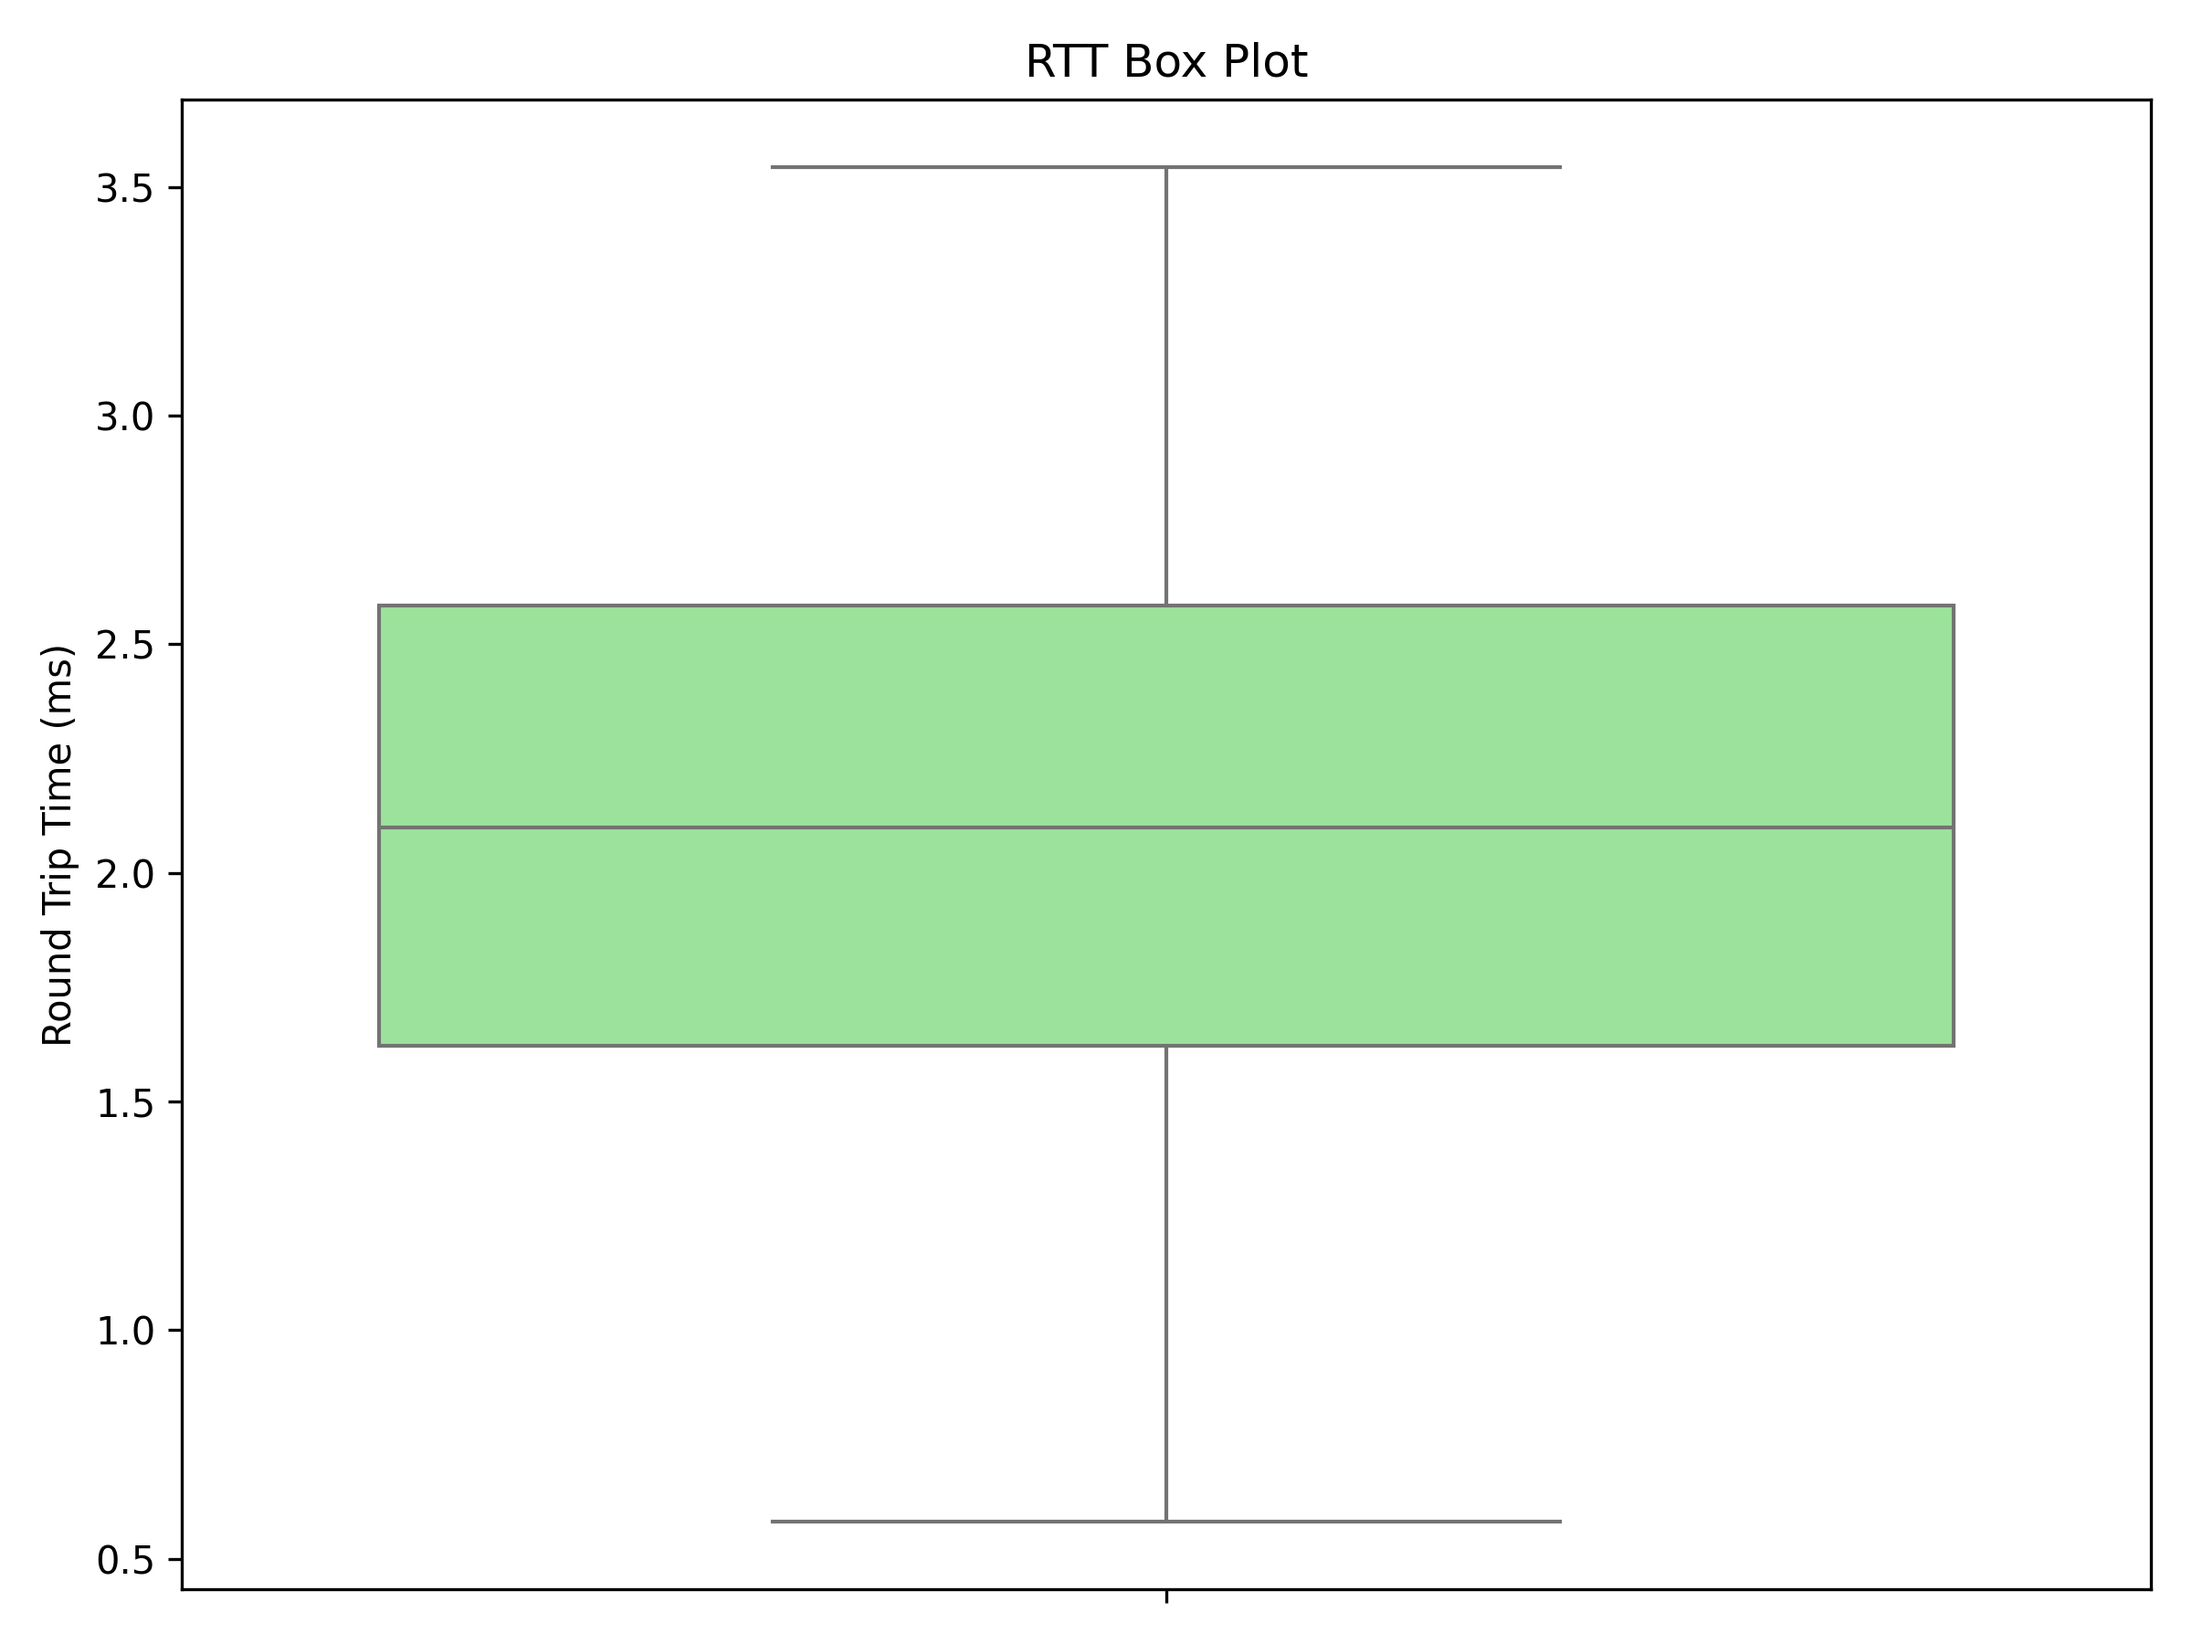
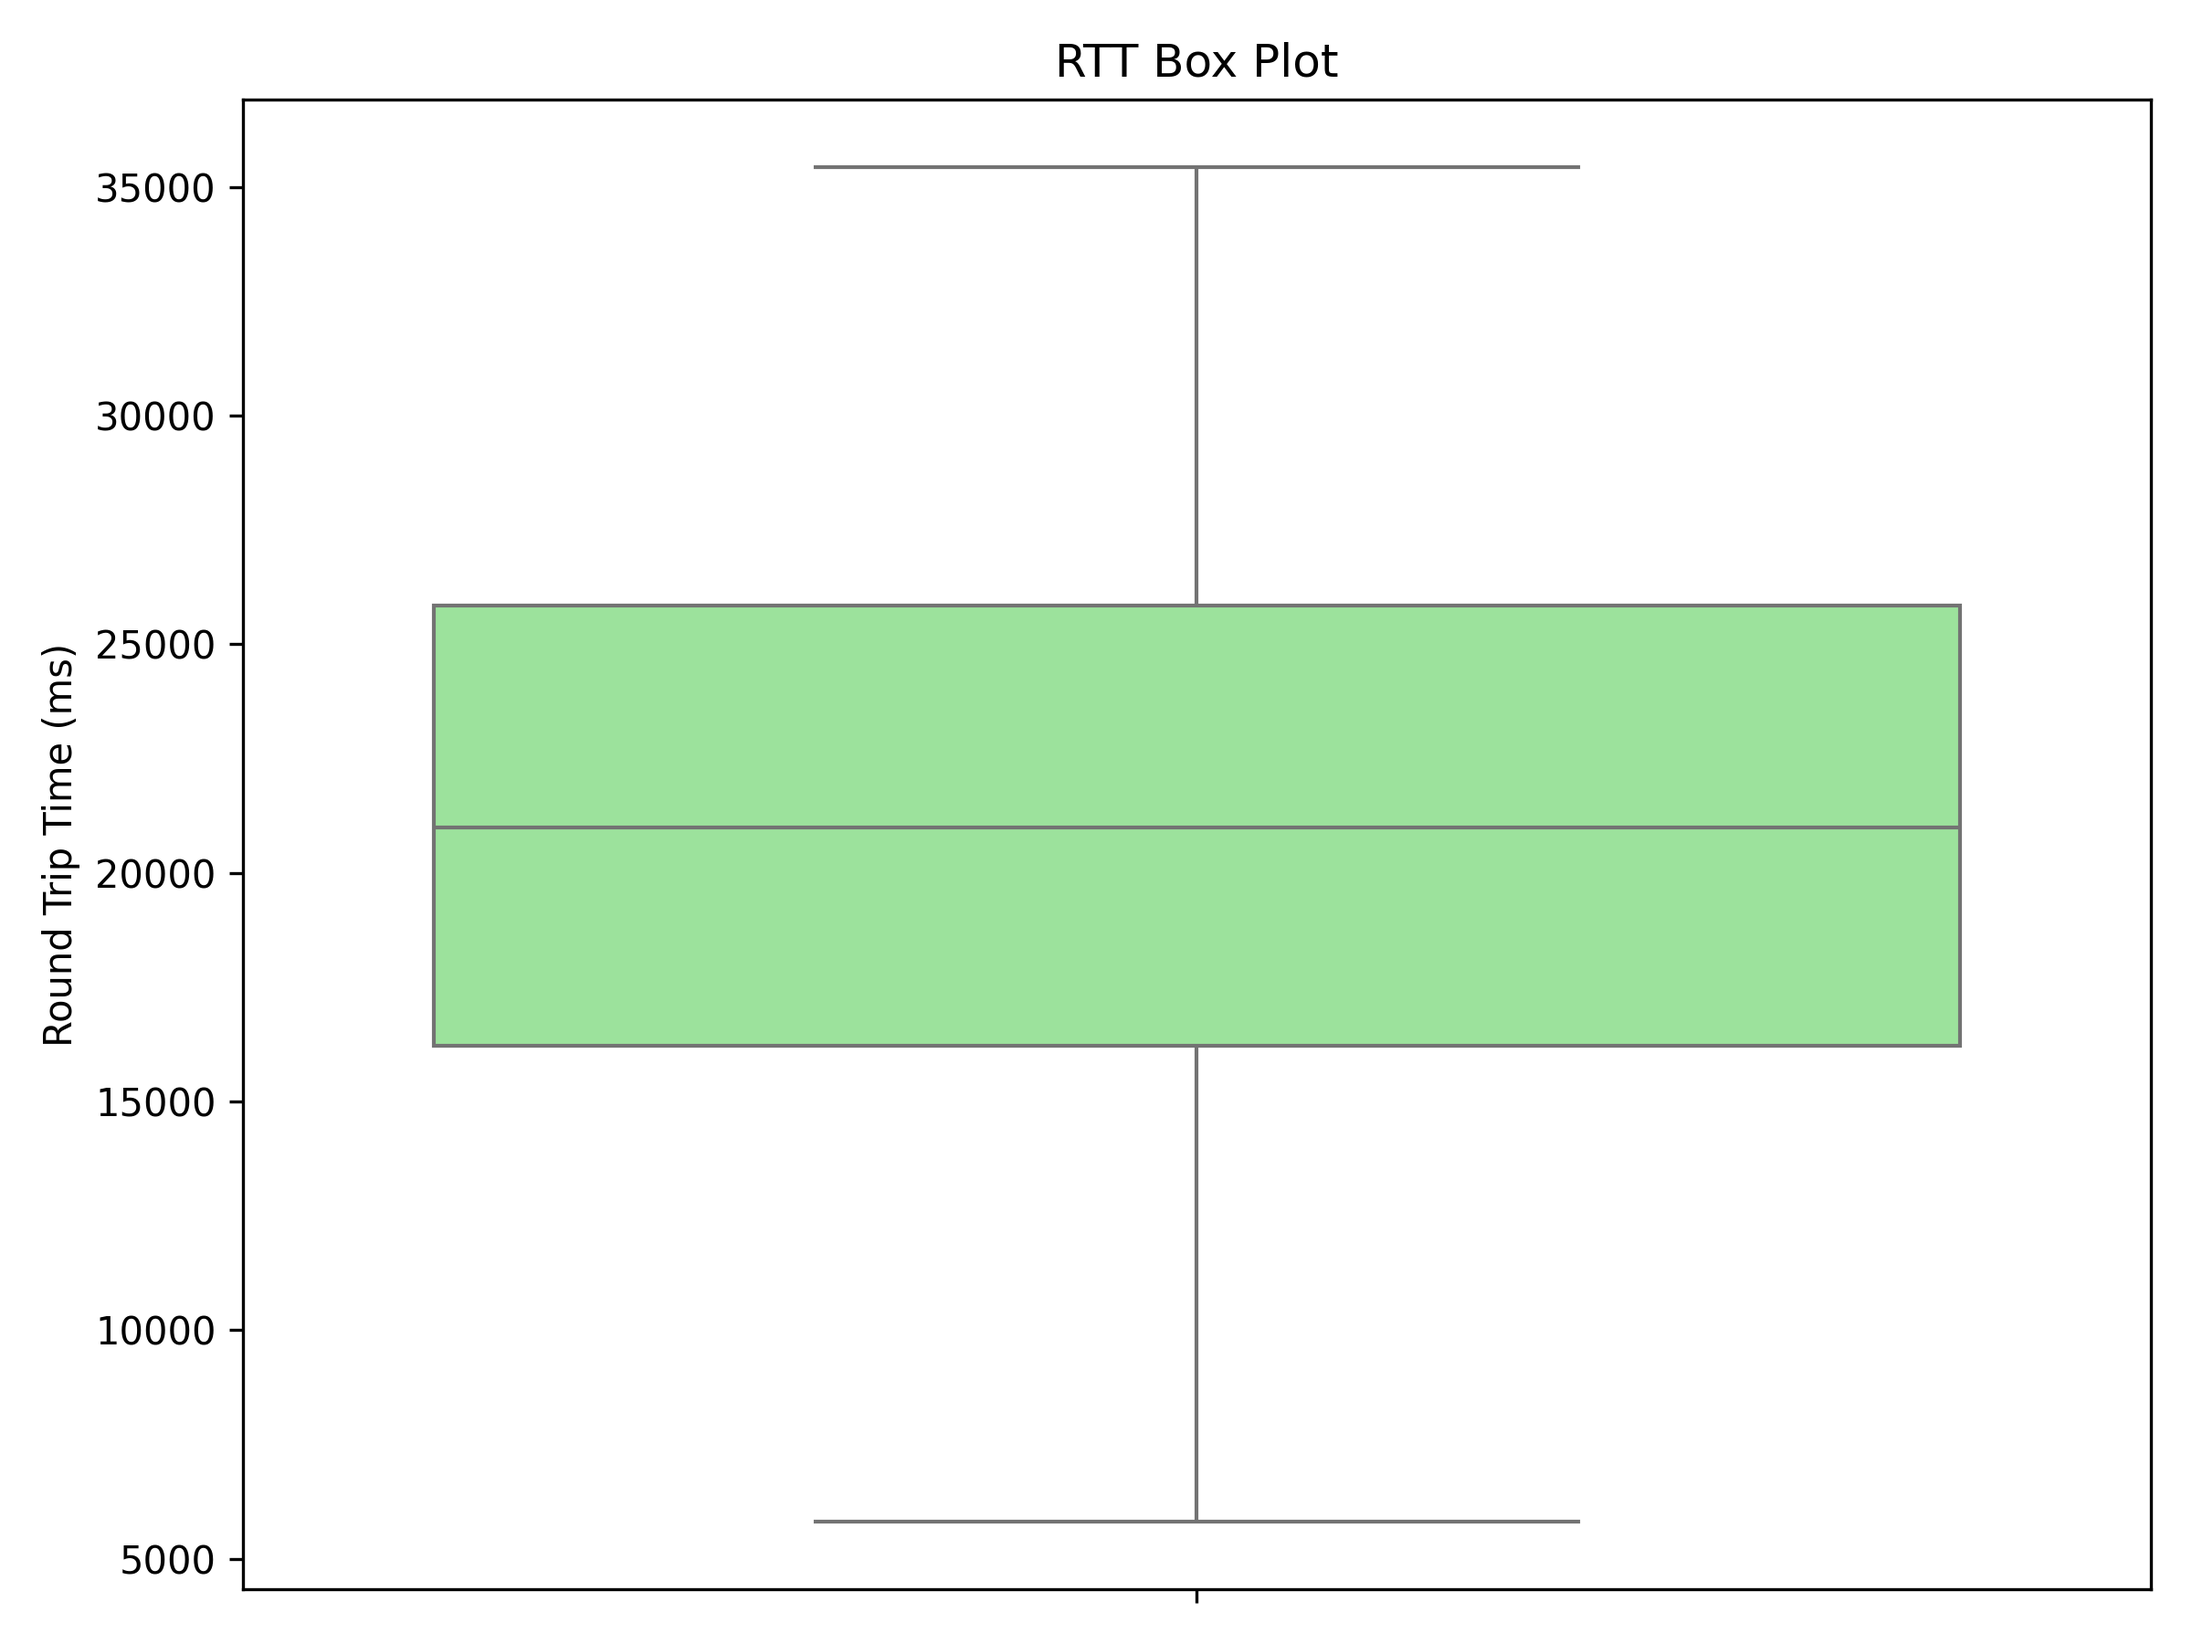
make benchmark in ms

diff --git a/benchmark/plots.py b/benchmark/plots.py
@@ -27,15 +27,15 @@ try:
             raise ValueError("Marker '--- ssd_os is READY! ---' not found in file.")
         
         # Now extract data from the following lines
-        clock_cycles = []
+        input = []
         for line in lines[start_index:]:
             if line.strip():  # Avoid empty lines
-                clock_cycles.append(int(line.strip()))
+                input.append(int(line.strip()))
     
     # Convert from 10MHz clock cycles to milliseconds
     # 1 cycle at 10MHz = 0.1 μs = 0.0001 ms
-    conversion_factor = 0.0001  # 10MHz clock cycle to milliseconds
-    rtt_data = [cycles * conversion_factor for cycles in clock_cycles]
+    # conversion_factor = 0.0001  # 10MHz clock cycle to milliseconds
+    rtt_data = input
     
     print(f"Successfully loaded {len(rtt_data)} data points from bench.txt")
     print(f"Converted clock cycles at 10MHz to milliseconds (1 cycle = 0.0001 ms)")
